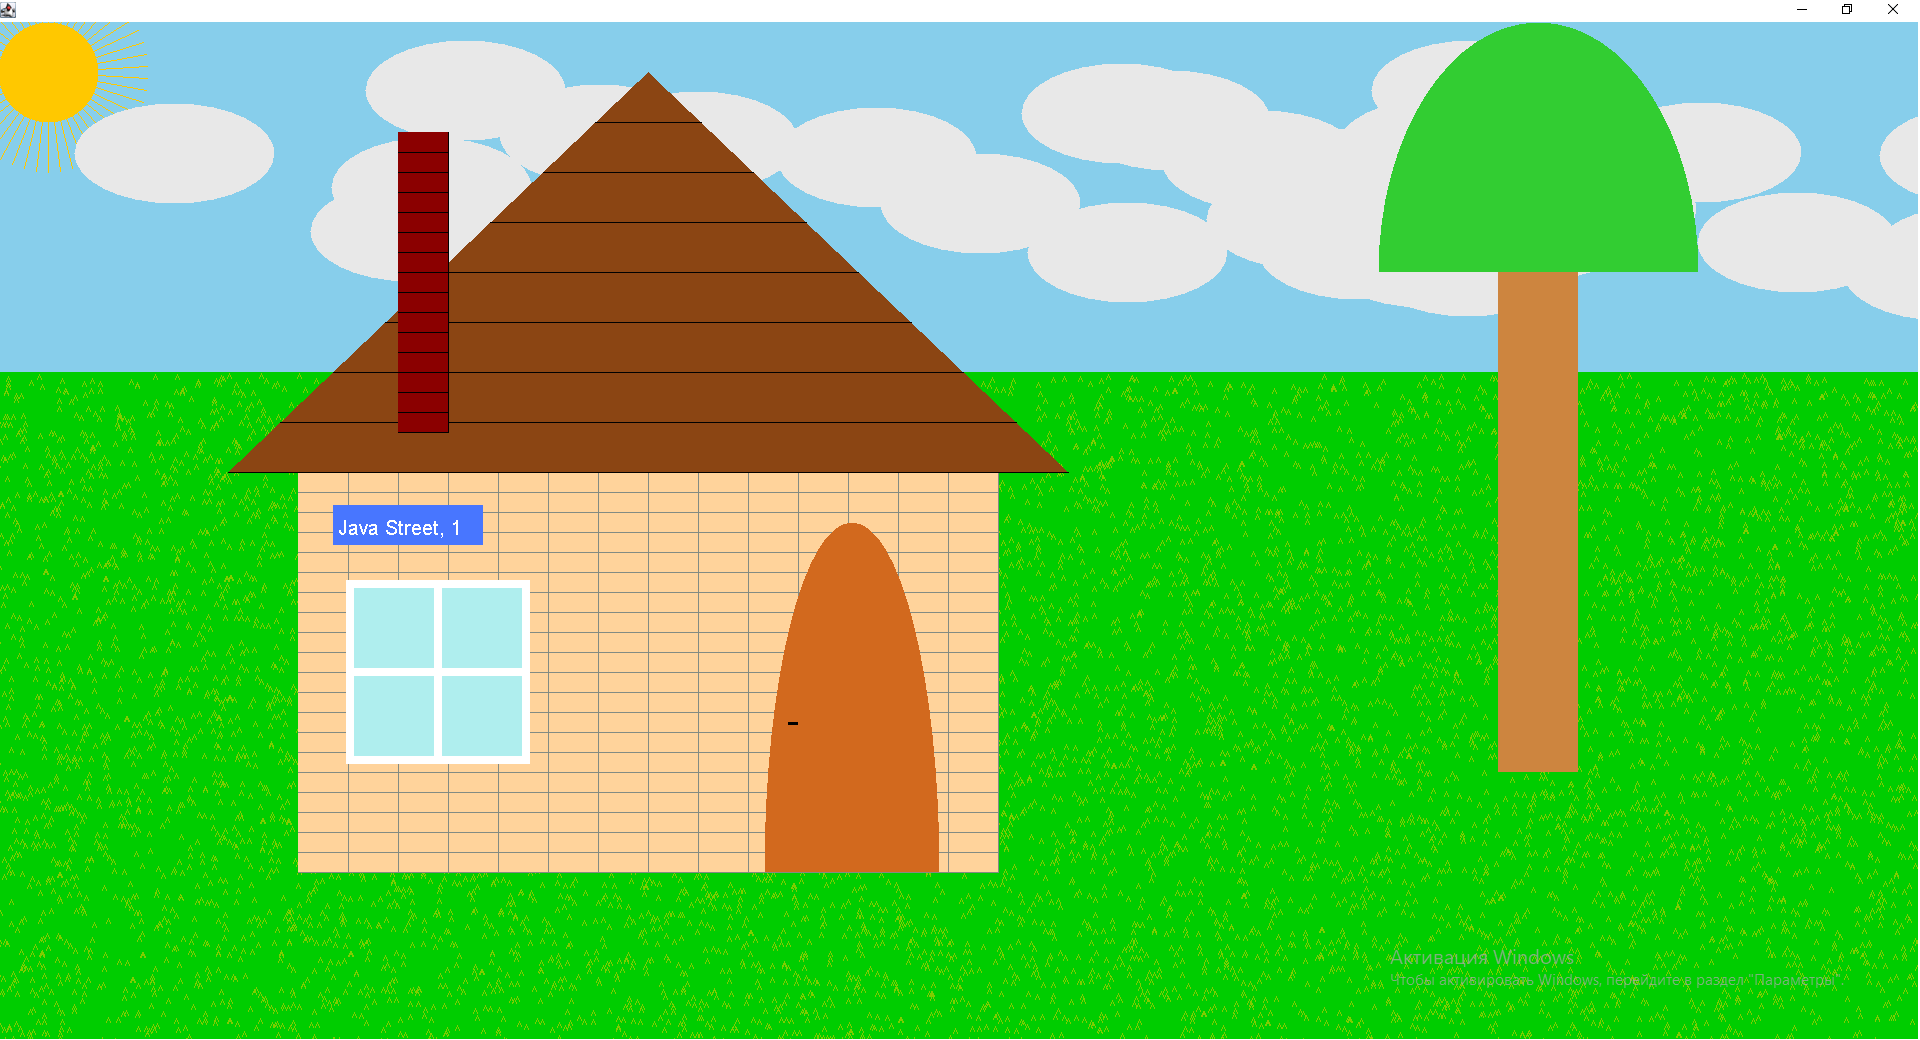
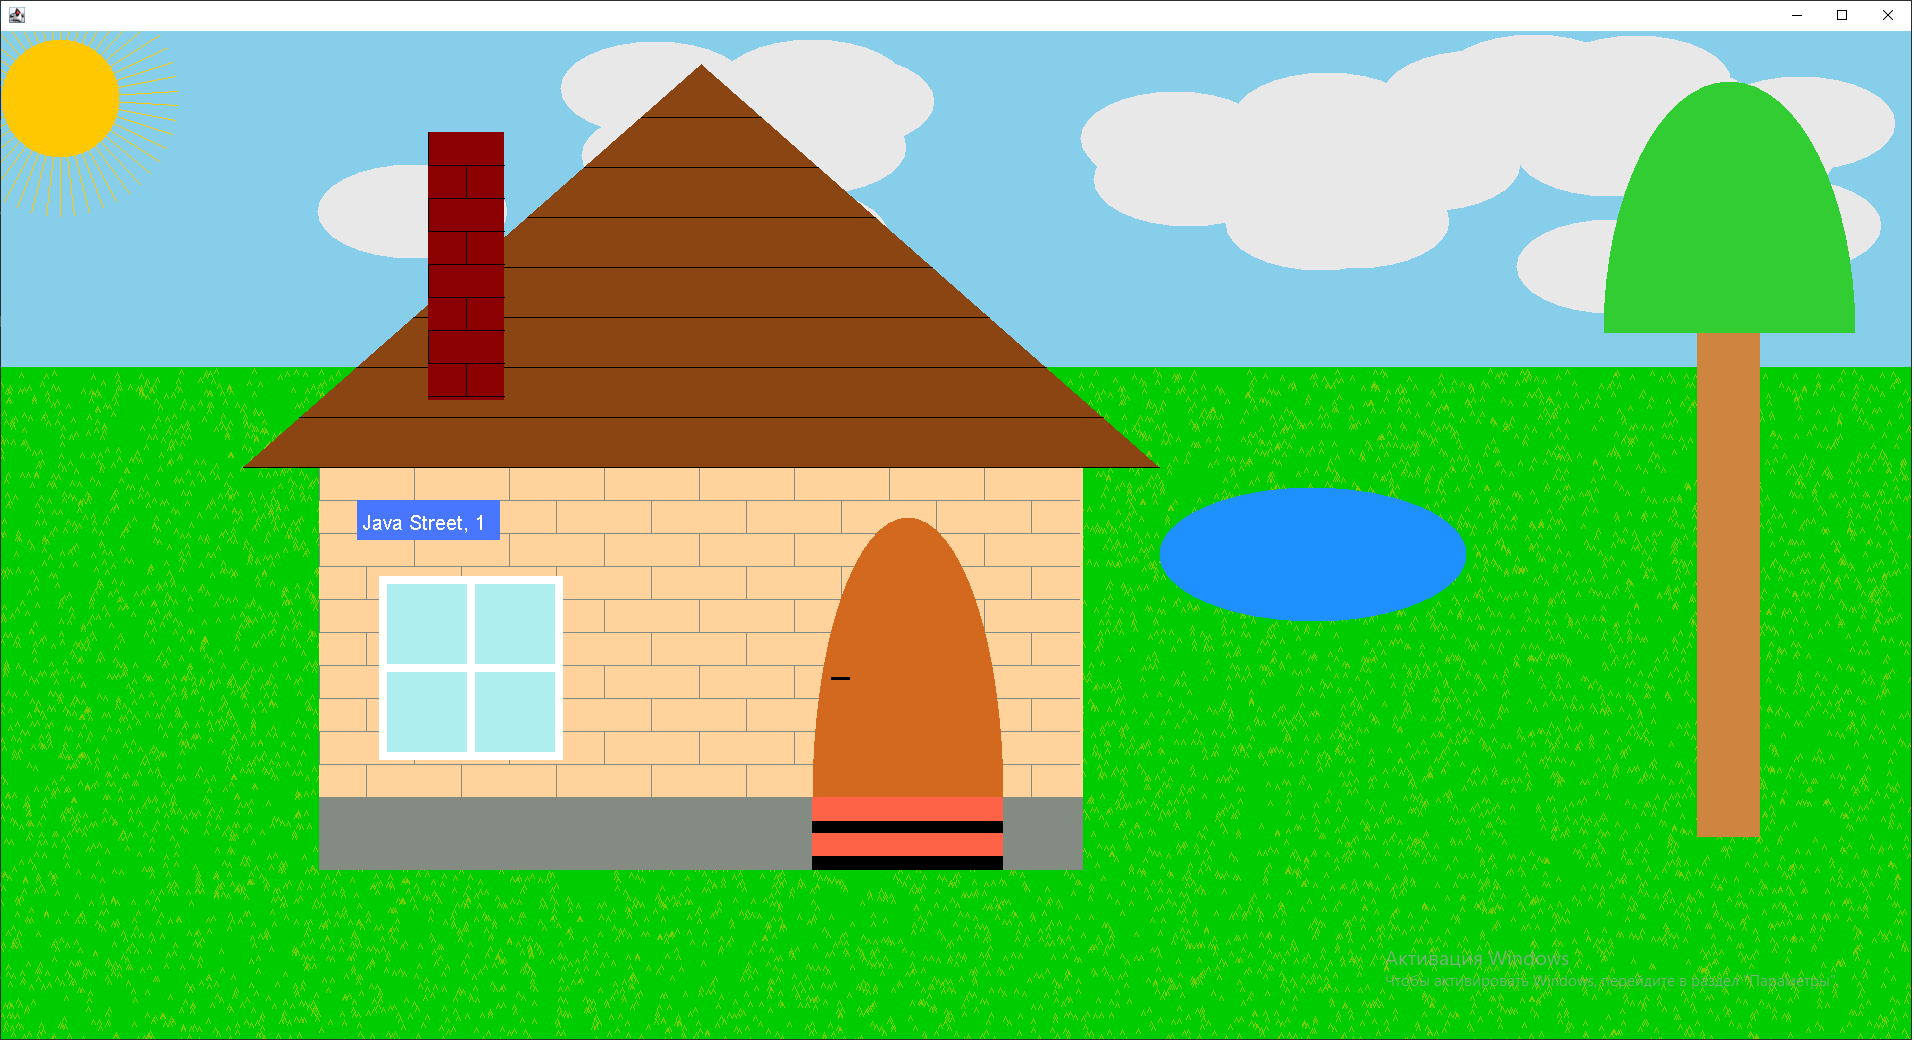
That's all!?

diff --git a/src/ru/vsu/cs/valeev/Home.java b/src/ru/vsu/cs/valeev/Home.java
@@ -3,7 +3,7 @@ package ru.vsu.cs.valeev;
 import java.awt.*;
 
 public class Home implements Drawable {
-    private int x, y, width, wallHeight;
+    private int x, y, width, wallHeight, foundY;
     private Color wallColor, doorColor, roofColor, windowColor;
     private Door door;
     private WindowHome window;
@@ -27,6 +27,16 @@ public class Home implements Drawable {
             g.fillArc(this.x, this.y, this.width, this.height, 0, 180);
             g.setColor(Color.BLACK);
             g.fillRect(this.x + this.width / 10, this.y + this.height / 7 * 2, this.width / 10, 3);
+            drawDoorstep(g, x, foundY, width, Home.this.getY() + Home.this.getWallHeight() - Home.this.foundY, height / 200, new Color(255, 99, 71));
+        }
+
+        private void drawDoorstep(Graphics2D g, int x, int y, int width, int height, int count, Color color) {
+            g.setColor(color);
+            g.fillRect(x, y, width, height);
+            g.setColor(Color.BLACK);
+            for (int i = 1; i <= count; i++) {
+                g.fillRect(x, y + i * height / count - height / (5 + count - i), width, height / (5 + count - i));
+            }
         }
     }
 
@@ -144,13 +154,21 @@ public class Home implements Drawable {
         return width;
     }
 
+    public int getY() {
+        return y;
+    }
+
+    public int getWallHeight() {
+        return wallHeight;
+    }
+
     @Override
     public void draw(Graphics2D g) {
         g.setColor(this.wallColor);
         g.fillRect(this.x, this.y, this.width, this.wallHeight);
 
         int bWidth = this.width / 8;
-        int foundY =  drawBricks(g, this.x, this.y, bWidth, bWidth / 8 * 3, this.wallHeight / bWidth * 8 / 3, this.width / bWidth, new Color(131, 139, 131));
+        this.foundY =  drawBricks(g, this.x, this.y, bWidth, bWidth / 8 * 3, this.wallHeight / bWidth * 8 / 3, this.width / bWidth, new Color(131, 139, 131));
         g.setColor(new Color(131, 139, 131));
         g.fillRect(this.x, foundY, this.width, this.wallHeight - foundY + y);
 

diff --git a/src/ru/vsu/cs/valeev/Tree.java b/src/ru/vsu/cs/valeev/Tree.java
@@ -3,8 +3,8 @@ package ru.vsu.cs.valeev;
 import java.awt.*;
 
 public class Tree implements Drawable {
-    int x, y, width, height;
-    Color leafColor, trunkColor;
+    private int x, y, width, height;
+    private Color leafColor, trunkColor;
 
     public Tree(int x, int y, int width, int height, Color leafColor, Color trunkColor) {
         this.x = x;
@@ -21,5 +21,9 @@ public class Tree implements Drawable {
         g.fillRect(this.x, this.y, this.width, this.height);
         g.setColor(this.leafColor);
         g.fillArc(this.x - this.width * 3 / 2, this.y - this.height / 2, this.width * 4, this.height, 0,180);
+    }
+
+    public int getX() {
+        return x;
     }
 }

diff --git a/src/ru/vsu/cs/valeev/DrawPanel.java b/src/ru/vsu/cs/valeev/DrawPanel.java
@@ -36,5 +36,8 @@ public class DrawPanel extends JPanel {
 
         Tree tree = new Tree(getWidth() / 9 * 8, sky.getY() * 9 / 10, getWidth() / 30, getHeight() / 2, new Color(50, 205, 50), new Color(205, 133, 63));
         tree.draw(gr);
+
+        Pond pond = new Pond(home.getX() + home.getWidth() * 11 / 10, home.getY() + home.getWallHeight() / 20, (tree.getX() - home.getX() - home.getWidth()) / 2, home.getWallHeight() / 3, new Color(30, 144, 255));
+        pond.draw(gr);
     }
 }

diff --git a/src/ru/vsu/cs/valeev/Pond.java b/src/ru/vsu/cs/valeev/Pond.java
@@ -1,0 +1,23 @@
+package ru.vsu.cs.valeev;
+
+import java.awt.*;
+
+public class Pond implements Drawable {
+    private int x, y,
+            a, b;
+    private Color c;
+
+    public Pond(int x, int y, int a, int b, Color c) {
+        this.x = x;
+        this.y = y;
+        this.a = a;
+        this.b = b;
+        this.c = c;
+    }
+
+    @Override
+    public void draw(Graphics2D g) {
+        g.setColor(c);
+        g.fillOval(this.x, this.y, this.a, this.b);
+    }
+}

diff --git a/src/ru/vsu/cs/valeev/Grass.java b/src/ru/vsu/cs/valeev/Grass.java
@@ -4,8 +4,8 @@ import java.awt.*;
 import java.util.Random;
 
 public class Grass implements Drawable {
-    int x, y1, y2;
-    Color color;
+    private int x, y1, y2;
+    private Color color;
 
     public Grass(int x, int y1, int y2, Color color) {
         this.x = x;

diff --git a/src/ru/vsu/cs/valeev/Cloud.java b/src/ru/vsu/cs/valeev/Cloud.java
@@ -3,8 +3,8 @@ package ru.vsu.cs.valeev;
 import java.awt.*;
 
 public class Cloud implements Drawable {
-    int x, y, r1, r2;
-    Color color;
+    private int x, y, r1, r2;
+    private Color color;
 
 
     public Cloud(int x, int y, int r1, int r2, Color color) {
